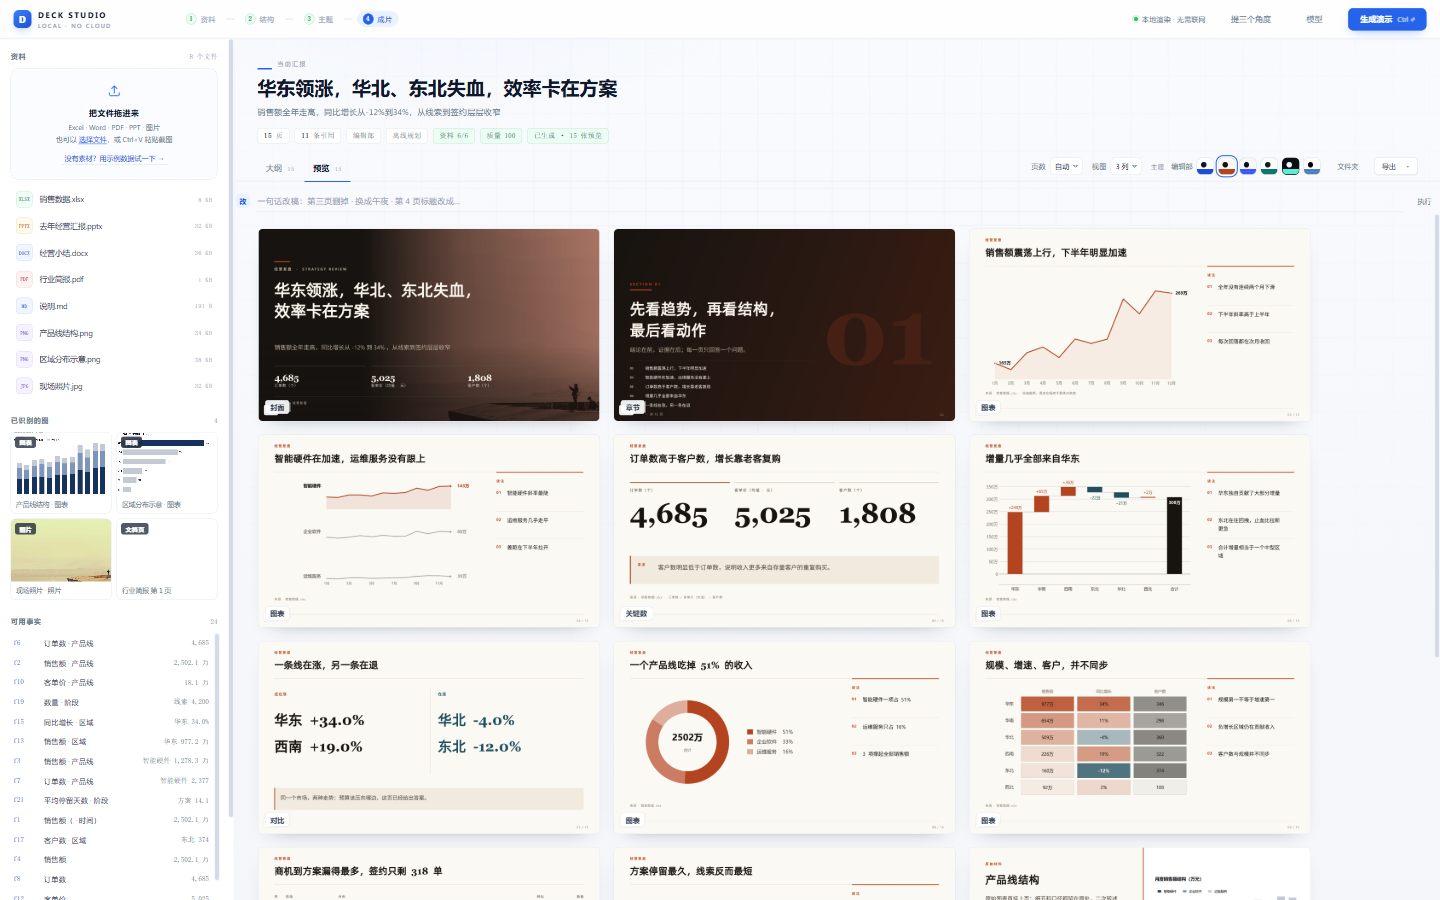
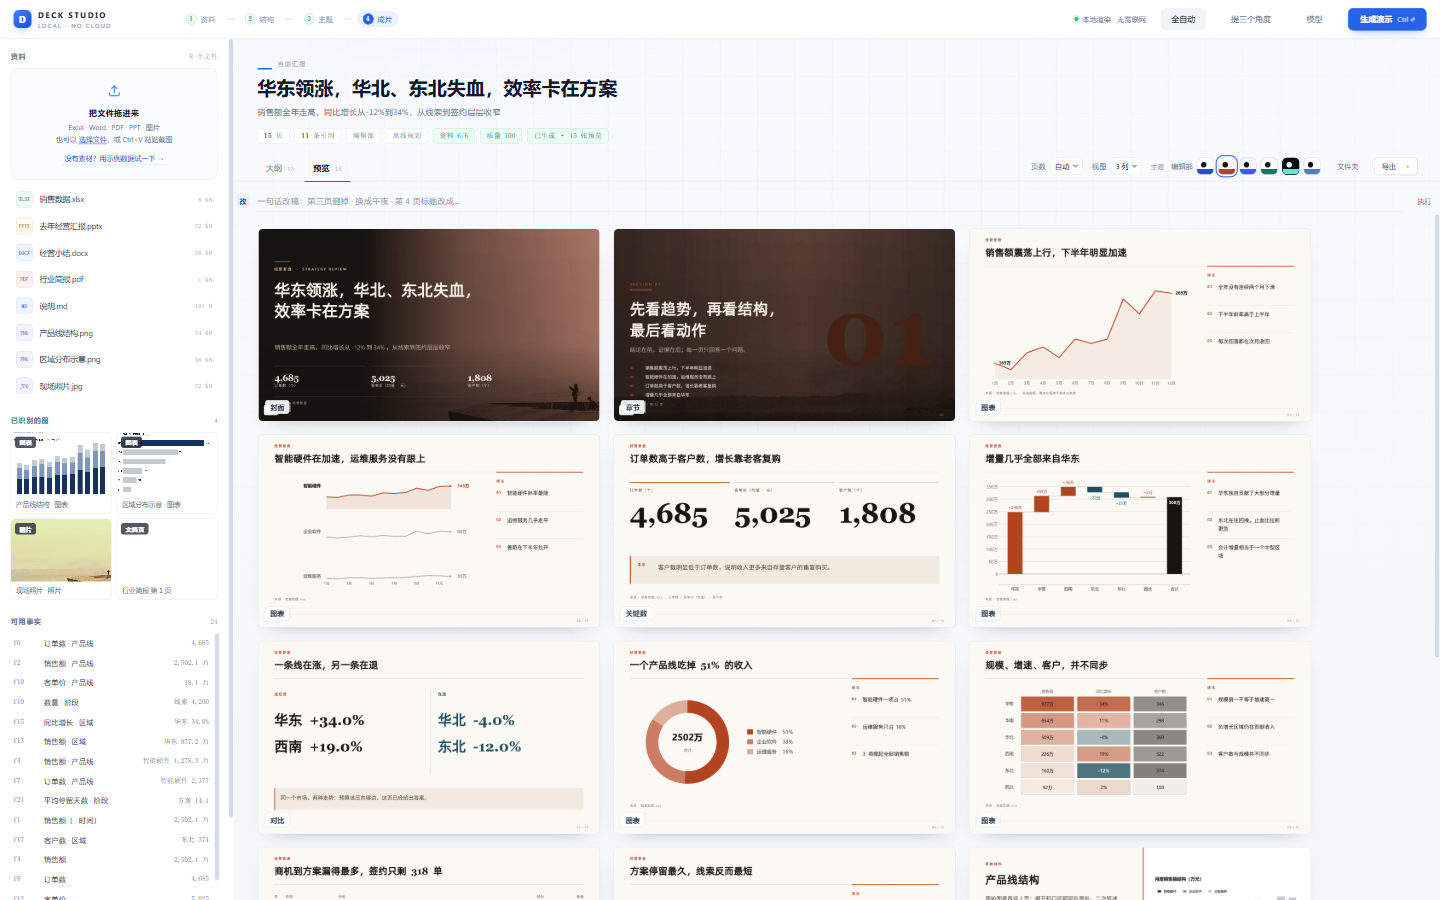
auto: one button takes the material all the way to a deck

Changed region(s): [[0.4062, 0.2489, 0.625, 0.4667], [0.75, 0.0, 0.8438, 0.0311], [0.625, 0.4356, 0.6875, 0.4667]]

diff --git a/app/static/index.html b/app/static/index.html
@@ -22,8 +22,8 @@
     </div>
     <div class="grow"></div>
     <div class="top-note"><span class="dot"></span><span id="engine">本地渲染 · 无需联网</span></div>
+    <button class="btn ghost" id="autoBtn" title="从材料一路做到成片：找角度 → 排页序 → 写讲稿 → 排版">全自动</button>
     <button class="btn ghost" id="ideaBtn" title="让模型先提出三个叙事角度">提三个角度</button>
-    <button class="btn ghost" id="notesBtn" hidden title="让模型为每一页写一句上台要说的话">写讲稿</button>
     <button class="btn ghost" id="lookBtn" hidden title="让视觉模型看一遍已生成的页面，指出版式问题">看一眼</button>
     <button class="btn ghost" id="setBtn" title="接入文本/视觉模型（可选）">模型</button>
     <button class="btn ghost" id="notesBtn" hidden title="让模型给每页写一句讲稿（会写进 PPTX 的备注）">写讲稿</button>
@@ -865,6 +865,38 @@ async function pickIdea(idea){
   }catch(e){ busy(false); toast('重排失败：' + e.message); }
 }
 $('#ideaBtn').onclick = openIdeas;
+
+/* One click, the whole pipeline. The server runs it in a thread so the window
+   never freezes; the UI just narrates the steps back. */
+let autoTimer = null;
+function watchAuto(){
+  clearInterval(autoTimer);
+  autoTimer = setInterval(async ()=>{
+    let p = null;
+    try { p = await (await fetch('/api/progress')).json(); } catch(e) { return; }
+    $('#engine').textContent = '全自动 · ' + (p.step || '…');
+    if(p.running) return;
+    clearInterval(autoTimer);
+    const st = await (await fetch('/api/state')).json();
+    apply(st); paintEngine(st.settings);
+    $('#buildBtn').disabled = false;
+    if(p.error) toast('全自动停住了：' + p.error);
+    else toast('全自动完成：' + (st.pages || []).length + ' 页');
+  }, 900);
+}
+$('#autoBtn').onclick = async ()=>{
+  if(autoTimer) return;
+  $('#autoBtn').disabled = true;
+  $('#engine').textContent = '全自动 · 开始';
+  try {
+    const r = await fetch('/api/auto', {method:'POST', headers:{'Content-Type':'application/json'},
+      body: JSON.stringify({theme:S.theme, slides:S.slidesWanted||0})});
+    if(!r.ok){ toast('启动失败：' + (await r.json()).detail); $('#autoBtn').disabled=false; return; }
+    watchAuto();
+  } finally {
+    setTimeout(()=>{ $('#autoBtn').disabled = false; }, 1200);
+  }
+};
 $('#ideaClose').onclick = ()=>{ $('#ideaSheet').style.display = 'none'; };
 $('#setClose').onclick = closeSettings;
 $('#setCancel').onclick = closeSettings;

diff --git a/app/server.py b/app/server.py
@@ -54,6 +54,7 @@ STATE: dict[str, Any] = {
     "qa": None,
     "started": time.time(),
     "client": None,
+    "auto": {"running": False, "step": "", "log": [], "done": False, "error": ""},
 }
 PLAN_FILE = HOME / "plan.json"
 
@@ -331,6 +332,11 @@ class BuildBody(BaseModel):
     force: bool = False
 
 
+class AutoBody(BaseModel):
+    theme: str = ""
+    slides: int = 0
+
+
 class PlanBody(BaseModel):
     brief: str = ""
     deck_title: str = ""
@@ -572,6 +578,77 @@ def create_app() -> FastAPI:
             "review": review_now(),
             "readiness": readiness_now(),
         }
+
+    def _auto_note(step: str) -> None:
+        box = STATE["auto"]
+        box["step"] = step
+        box["log"].append(step)
+
+    def _auto_run(theme: str, slides: int) -> None:
+        """The whole pipeline, in the order a person would do it.
+
+        It uses the model where the model is good (deciding what to say) and
+        the renderer where the renderer is good (deciding where it goes).
+        Any failure is caught here: a background thread that dies silently
+        would leave the UI spinning forever.
+        """
+        box = STATE["auto"]
+        try:
+            with LOCK:
+                bundle, facts = STATE["bundle"], STATE["facts"]
+                pics = list(getattr(bundle, "pictures", []) or [])
+            if bundle is None:
+                raise ValueError("先上传资料")
+            client = client_for_model()
+            brief = ""
+            if client is not None:
+                _auto_note("模型在读材料，找三个可以讲的角度")
+                try:
+                    ideas = agent.pitch(bundle, facts, client=client)
+                    if ideas:
+                        brief = f"{ideas[0]['angle']} {ideas[0]['why']}".strip()
+                        box["log"].append(f"选了角度：{ideas[0]['title']}")
+                except (LLMError, ValueError) as exc:
+                    box["log"].append(f"提角度没成功，按材料本身排：{str(exc)[:80]}")
+            _auto_note("在排页序" + ("（模型）" if client is not None else "（离线规则）"))
+            result = agent.plan(bundle, facts, brief, slides=slides, client=client)
+            plan = result.plan
+            with LOCK:
+                STATE["plan"] = plan
+                STATE["planner"] = {"who": result.planner, "model": result.model,
+                                    "label": result.summary(), "log": result.log}
+            if client is not None:
+                _auto_note("在写讲稿")
+                got = agent.notes(plan, facts, client=client)
+                if got is not None:
+                    plan, msg = got
+                    with LOCK:
+                        STATE["plan"] = plan
+                    box["log"].append(msg)
+            _auto_note("在排版、导预览、算质量分")
+            theme2 = theme if theme in THEMES else STATE.get("theme") or "editorial"
+            build(BuildBody(plan=asdict(plan), theme=theme2, force=True))
+            box["done"] = True
+            _auto_note("好了")
+        except Exception as exc:  # noqa: BLE001 - surfaced to the UI, not swallowed
+            box["error"] = str(exc)[:200] or exc.__class__.__name__
+            box["log"].append("出错：" + box["error"])
+        finally:
+            box["running"] = False
+
+    @app.post("/api/auto")
+    def auto(body: AutoBody):
+        if STATE["auto"]["running"]:
+            raise HTTPException(409, "正在跑，等这一版出来")
+        with LOCK:
+            STATE["auto"] = {"running": True, "step": "开始", "log": [], "done": False, "error": ""}
+        th = threading.Thread(target=_auto_run, args=(body.theme, body.slides), daemon=True)
+        th.start()
+        return {"started": True}
+
+    @app.get("/api/progress")
+    def progress():
+        return STATE["auto"]
 
     @app.get("/files/{path:path}")
     def files(path: str):

diff --git a/tests/test_app.py b/tests/test_app.py
@@ -216,3 +216,39 @@ class NotesRouteTest(unittest.TestCase):
             r = c.post("/api/notes")
         self.assertEqual(r.status_code, 409)
         self.assertIn("模型", r.json()["detail"])
+
+
+class AutoPipelineTest(unittest.TestCase):
+    """One click must end in a deck, not in a spinner.
+
+    The model is mocked out here: what is under test is the wiring, the order
+    of the steps, and the fact that a background thread reports progress
+    instead of leaving the UI waiting forever.
+    """
+
+    def test_auto_runs_to_a_plan_and_reports_steps(self):
+        import time
+        from app import server as srv
+        c = TestClient(srv.app)
+        c.post("/api/sample")
+        with mock.patch.object(srv, "client_for_model", return_value=None):
+            r = c.post("/api/auto", json={"theme": "editorial"})
+            self.assertEqual(r.status_code, 200)
+            for _ in range(120):
+                p = c.get("/api/progress").json()
+                if not p["running"]:
+                    break
+                time.sleep(0.25)
+        self.assertFalse(p["running"])
+        self.assertEqual(p["error"], "")
+        self.assertTrue(p["done"])
+        self.assertGreaterEqual(len(p["log"]), 3)
+        self.assertIn("在排版", " ".join(p["log"]))
+        st = c.get("/api/state").json()
+        self.assertGreaterEqual(len(st["plan"]["slides"]), 5)
+
+    def test_only_one_button_writes_notes(self):
+        root = Path(__file__).resolve().parent.parent
+        html = (root / "app" / "static" / "index.html").read_text(encoding="utf-8")
+        self.assertEqual(html.count('id="notesBtn"'), 1)
+        self.assertIn('id="autoBtn"', html)

diff --git a/README.md b/README.md
@@ -8,7 +8,7 @@
 
 不是一个套模板的「一键生成」。它先把你手上的材料读懂、算清楚，再按一套从 19 份真实 deck（1144 页）里量出来的设计规范排版；模型可以主导论证，但**任何一个数字都必须能指回原始表格**。
 
-> **下载即用**：[Deck Studio 0.8.2 · Windows x64](https://github.com/maquekenzhegua/deck-studio/releases/latest) — 解压后双击 `Deck Studio.exe`，不需要装 Python。没有 Office 也能预览（内置 LibreOffice 无头转换）。
+> **下载即用**：[Deck Studio 0.8.3 · Windows x64](https://github.com/maquekenzhegua/deck-studio/releases/latest) — 解压后双击 `Deck Studio.exe`，不需要装 Python。没有 Office 也能预览（内置 LibreOffice 无头转换）。
 
 ![Deck Studio](docs/app-window.png)
 
@@ -40,6 +40,10 @@
 ![双指标表格](docs/two-measures.png)
 
 ![评审面板](docs/review.png)
+
+## 一条路走到底：全自动
+
+点「全自动」就够：模型先读材料找角度 → 排页序 → 写讲稿 → 排版导预览算质量分，每一步都回显在标题栏右侧。没配模型时同一条路用离线规则走完，只是没有角度和讲稿那两步。
 
 ## 两条入口
 
